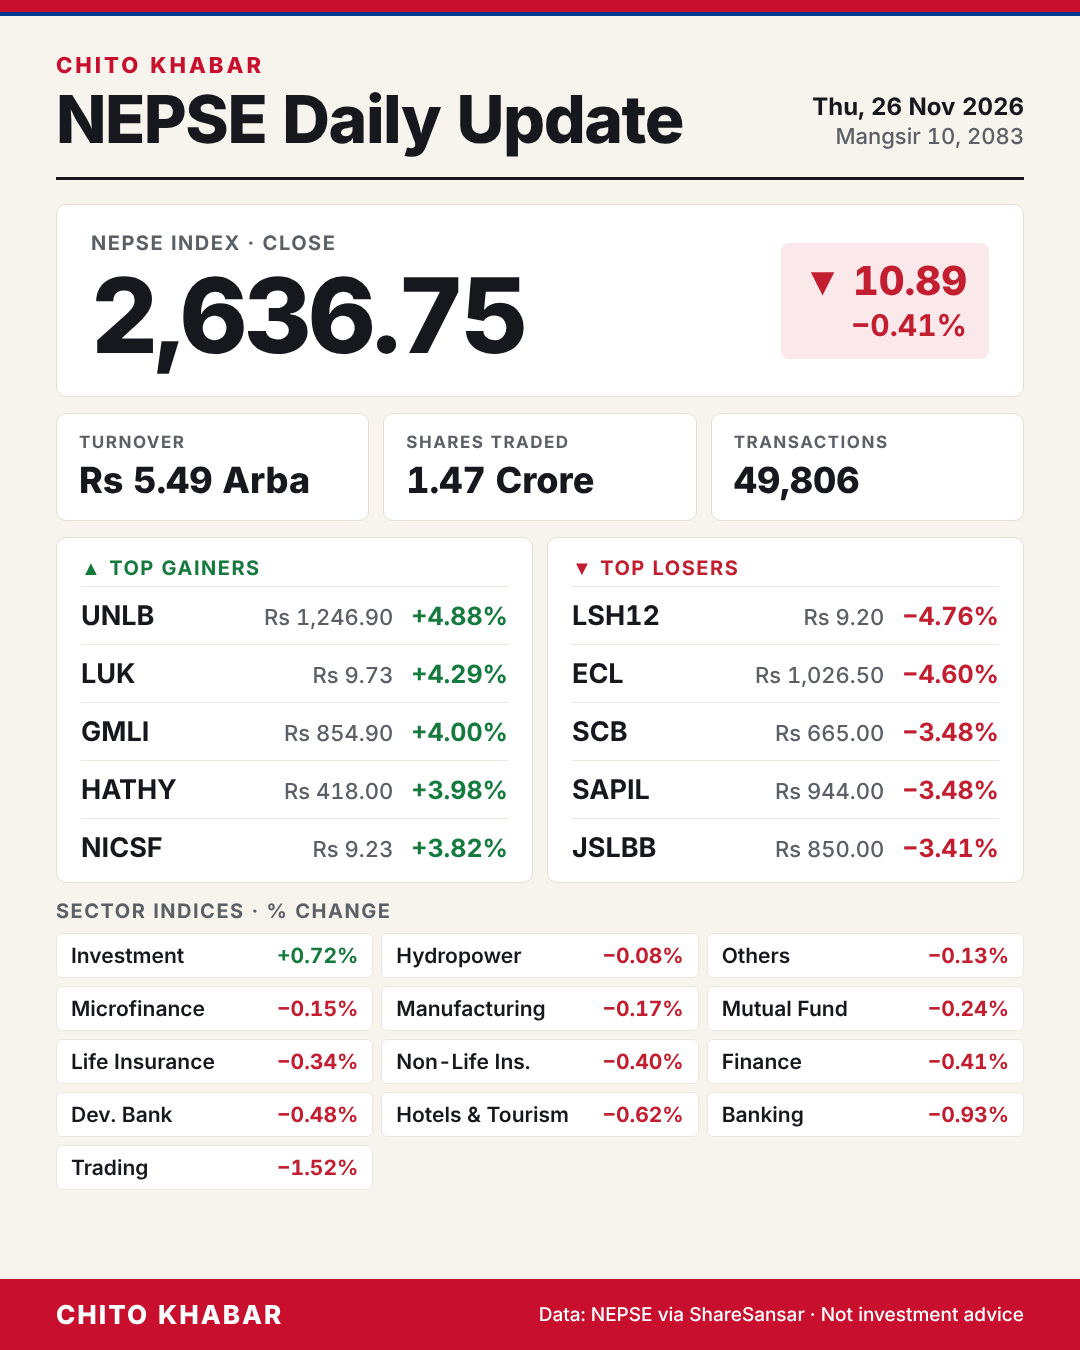
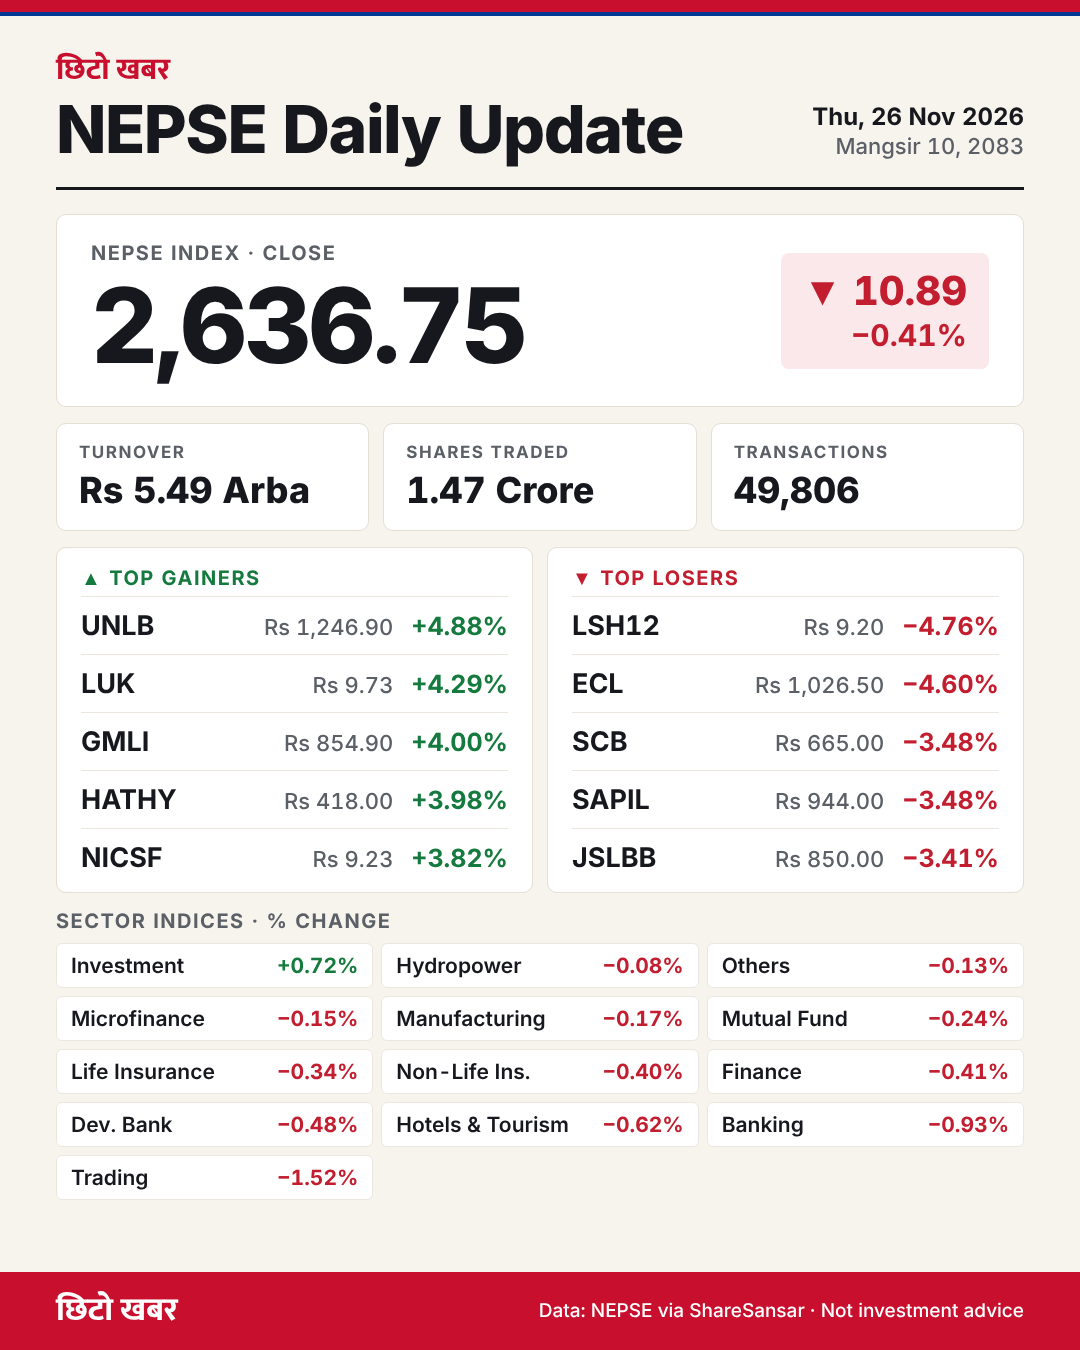
NEPSE poster: page name in Nepali (header and footer)
Claude-Session: https://claude.ai/code/session_01LLgcAfAPh7aRvAonrrFAiD

diff --git a/nepse/nepse.py b/nepse/nepse.py
@@ -17,6 +17,7 @@ from playwright.sync_api import sync_playwright
 
 HERE = pathlib.Path(__file__).resolve().parent
 FONTS = HERE.parent / "rashifal/node_modules/@fontsource/inter/files"
+MUKTA = HERE.parent / "rashifal/node_modules/@fontsource/mukta/files"
 NPT = datetime.timezone(datetime.timedelta(hours=5, minutes=45))
 BS_MONTHS = ["Baisakh", "Jestha", "Asar", "Shrawan", "Bhadra", "Asoj", "Kartik",
              "Mangsir", "Poush", "Magh", "Falgun", "Chaitra"]
@@ -93,7 +94,9 @@ def arrow(v): return "▲" if v > 0 else ("▼" if v < 0 else "■")
 def faces():
     return "\n".join(
         f"@font-face{{font-family:Inter;font-weight:{w};src:url('{(FONTS / f'inter-latin-{w}-normal.woff2').as_uri()}') format('woff2');}}"
-        for w in (500, 600, 700, 800))
+        for w in (500, 600, 700, 800)) + "\n" + "\n".join(
+        f"@font-face{{font-family:Mukta;font-weight:800;src:url('{(MUKTA / f'mukta-{sub}-800-normal.woff2').as_uri()}') format('woff2');}}"
+        for sub in ("devanagari", "latin"))
 
 
 def mover_rows(items):
@@ -124,7 +127,7 @@ body{{margin:0}} *{{box-sizing:border-box}}
 </style></head><body><div id="root">
 <div style="height:12px;background:{RED}"></div><div style="height:4px;background:{BLUE}"></div>
 <div style="padding:36px 56px 0;display:flex;justify-content:space-between;align-items:flex-end">
-<div><div style="font-size:22px;font-weight:800;color:{RED};letter-spacing:3px">CHITO KHABAR</div>
+<div><div style="font-family:Mukta,sans-serif;font-size:30px;font-weight:800;color:{RED};line-height:1.2">छिटो खबर</div>
 <div style="font-size:66px;font-weight:800;letter-spacing:-1.5px;line-height:1.08;margin-top:6px">NEPSE Daily Update</div></div>
 <div style="text-align:right;padding-bottom:6px"><div style="font-size:24px;font-weight:700">{i['date_en']}</div>
 <div style="font-size:22px;font-weight:500;color:#5B5F66;margin-top:2px">{i['date_bs']}</div></div></div>
@@ -147,7 +150,7 @@ body{{margin:0}} *{{box-sizing:border-box}}
 <div style="display:grid;grid-template-columns:repeat(3,minmax(0,1fr));gap:8px">{sectors}</div></div>
 </div>
 <div style="margin-top:auto;background:{RED};color:#fff;padding:20px 56px;display:flex;justify-content:space-between;align-items:center">
-<div style="font-size:26px;font-weight:800;letter-spacing:2px">CHITO KHABAR</div>
+<div style="font-family:Mukta,sans-serif;font-size:32px;font-weight:800;line-height:1.2">छिटो खबर</div>
 <div style="font-size:19px;font-weight:500">Data: NEPSE via ShareSansar · Not investment advice</div></div>
 </div></body></html>"""
 
